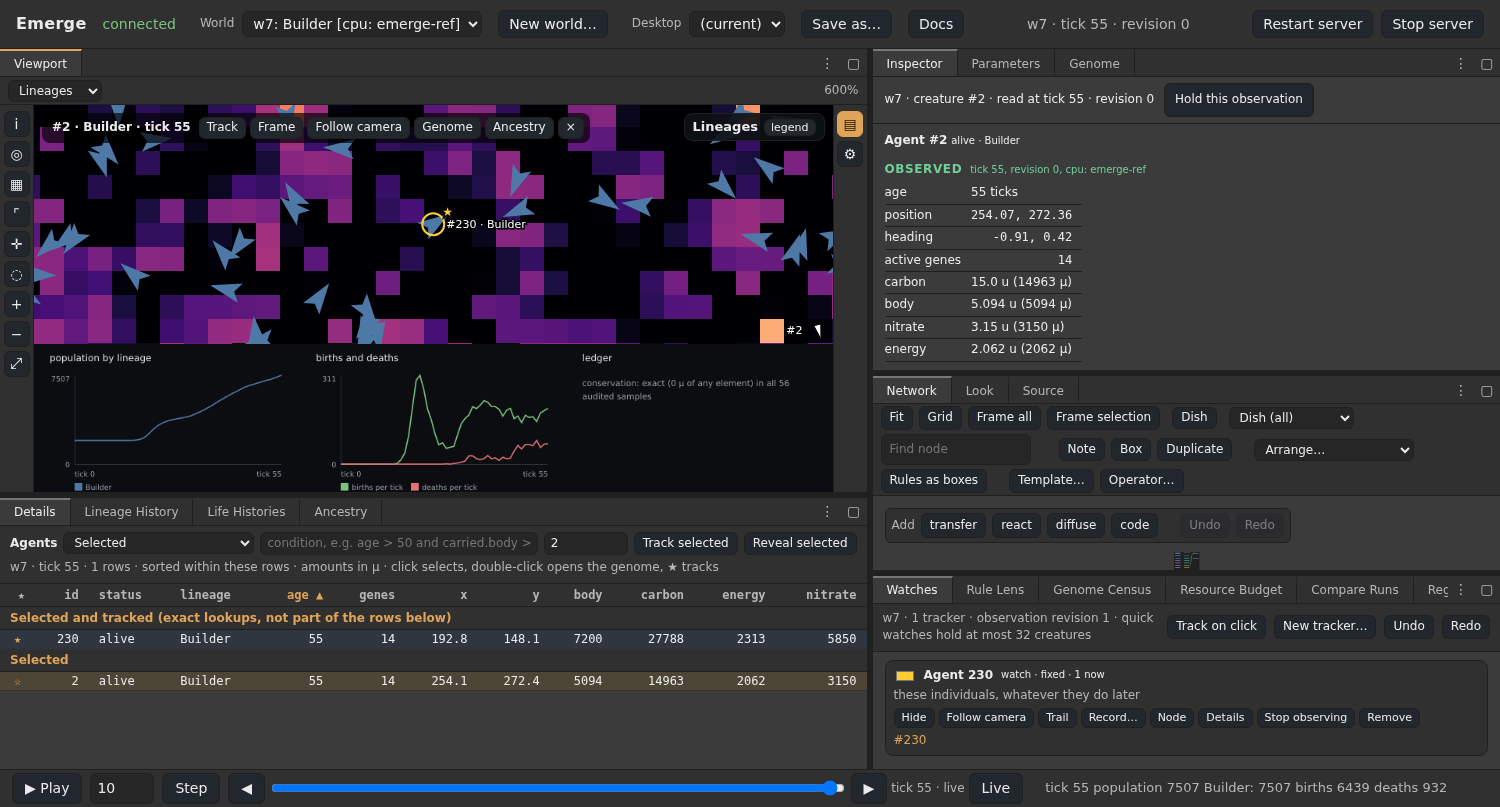
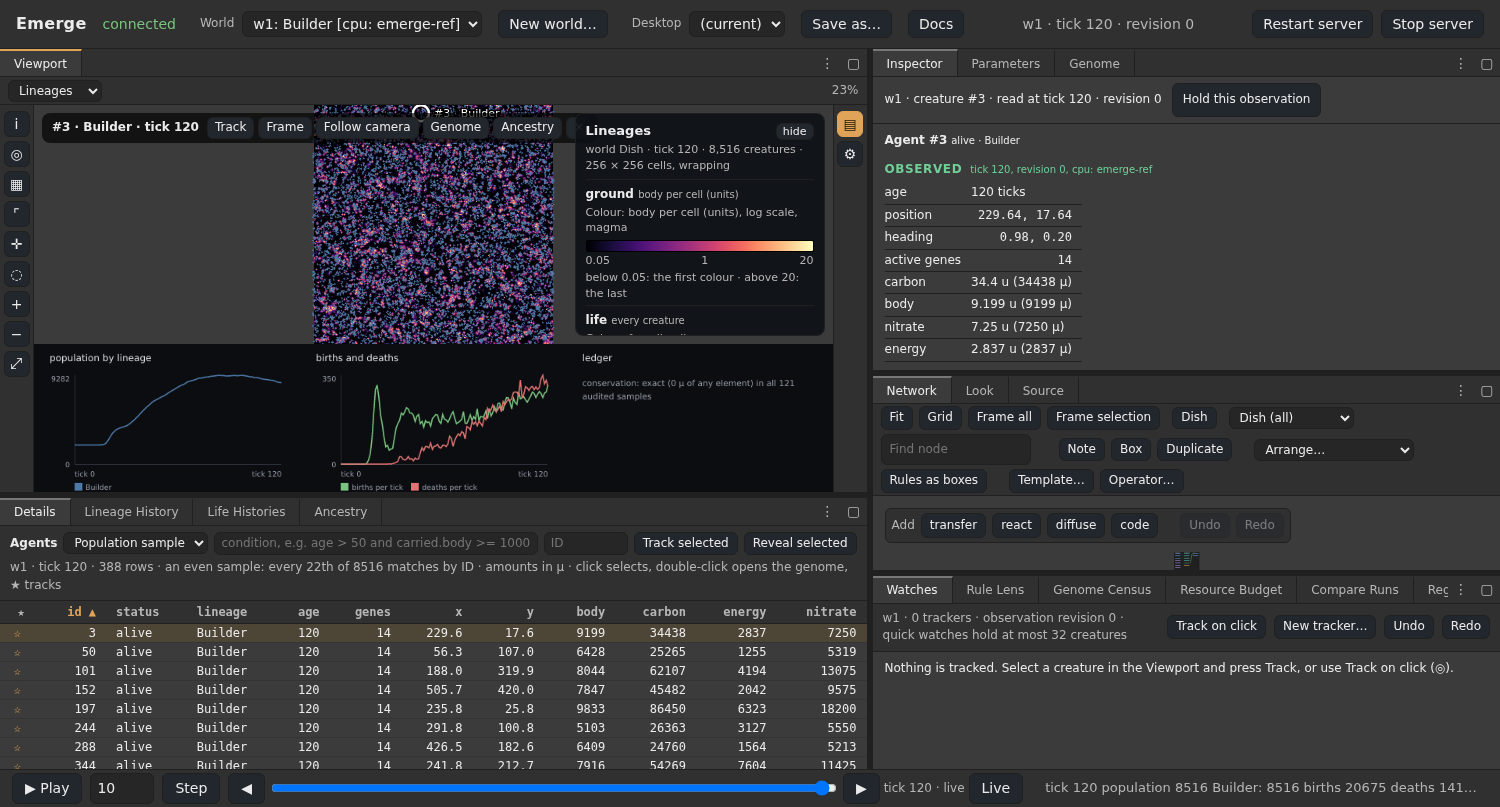
Update app screenshots to latest iteration with vector glyphs, scrubber, and modern UI

diff --git a/gallery/README.md b/gallery/README.md
@@ -12,7 +12,8 @@ A few chosen pictures of real runs, each with what is needed to draw it again (`
 | `preset-long-night-seed1-tick400.png` | The Long Night at the end of the night (tick 400): light in the cells on a fixed scale, creatures by carried energy | `emerge-server render examples/presets/long_night.em --lineages Builder --mutation off --seed 1 --tick 400 --views examples/views/presets.em --view Light --out gallery/preset-long-night-seed1-tick400.png` | `examples/presets/long_night.em`, seed 1, tick 400, CPU, mutation off |
 | `preset-lean-times-seed1-tick150.png` | Lean Times, Builder and Bloated at tick 150 with the population chart (the archived test-6 world) | `emerge-server render examples/presets/lean_times.em --lineages Builder,Bloated --mutation off --seed 1 --tick 150 --views examples/views/dish.em --view Lineages --chart default --out gallery/preset-lean-times-seed1-tick150.png` | `examples/presets/lean_times.em`, seed 1, tick 150, CPU, mutation off |
 | `preset-cabinet-highlife-seed1-tick100.png` | Automata Cabinet, birth on 3 and 6 from a 0.3 soup, tick 100; outcome not characterised | `emerge-server render examples/presets/cabinet-highlife.em --lineages "" --seed 1 --tick 100 --view Board --out gallery/preset-cabinet-highlife-seed1-tick100.png` | `examples/presets/cabinet-highlife.em`, seed 1, tick 100, CPU |
-| `app-node-network.png` | The whole application: the node-graph rule editor (Houdini-like network with rules as boxes, ports, and wires) | `scripts/browser/organise.mjs` | Live running world, Rules desktop |
+| `app-hero-simulate.png` | The whole application: the live viewer running with sharp vector glyphs, legend panel, rulers, timeline scrubber, and cellular layers | `scripts/browser/panes.mjs` | Sunlit Nursery preset, Simulate desktop |
+| `app-rules-network.png` | The whole application: the node-graph rule editor (Houdini-like network with rules as boxes, ports, and wires) | `scripts/browser/organise.mjs` | Live running world, Rules desktop |
 | `app-genome-editor.png` | The whole application: creature genome editor with module frames, signal routing, and parameters | `scripts/browser/genome.mjs` | Live running world, Genome desktop |
 | `app-science-lens.png` | The whole application: science panels with Rule Lens schedule, Lineage history chart, and counters | `scripts/browser/science.mjs` | Live running world, Science desktop |
 | `app-look-network.png` | The whole application: Look network view editor (typed visual shader graph with node previews) | `scripts/browser/look.mjs` | Live running world, Look network |

diff --git a/README.md b/README.md
@@ -2,21 +2,26 @@
 
 A rule-based language and engine for open-ended evolution. A world is a few lines of rules over conserved substances (`.em` files); creatures with evolvable genomes live in it; conservation, dissipation and the cost of living are laws that cannot be broken. It runs on the CPU (the reference) and on the GPU (equal word for word in contract mode), and has a browser editor.
 
-![Interactive Web Viewer](gallery/viewer-l3.png)
+![Interactive Web Viewer](gallery/app-hero-simulate.png)
 
 ## Screenshots
 
-### Application Panes & Desktop Layouts
+### Application Workspaces
 
-| Node Network Editor (`Rules`) | Creature Genome Editor (`Genome`) |
+| Live Simulation (`Simulate`) | Node Network Editor (`Rules`) |
 | :---: | :---: |
-| ![Node Network Editor](gallery/app-node-network.png) | ![Genome Editor](gallery/app-genome-editor.png) |
-| *Houdini-like network of rules as boxes, ports, and wires* | *Evolvable modules, signal wiring, and parameter cards* |
+| ![Live Simulation](gallery/app-hero-simulate.png) | ![Node Network Editor](gallery/app-rules-network.png) |
+| *Vector glyphs, legend, rulers, scrubber, and live cellular layers* | *Houdini-like network of rules as boxes, ports, and wires* |
 
 | Science Panels & Rule Lens (`Science`) | Agent Tracking & Inspector (`Track`) |
 | :---: | :---: |
 | ![Science Panels](gallery/app-science-lens.png) | ![Agent Tracking](gallery/app-agent-tracking.png) |
 | *Rule execution schedule, lineage history, and accounts* | *Live creature tracking, follow camera, and entity inspect* |
+
+| Creature Genome Editor (`Genome`) | Look Network Pipeline (`Look`) |
+| :---: | :---: |
+| ![Genome Editor](gallery/app-genome-editor.png) | ![Look Network](gallery/app-look-network.png) |
+| *Evolvable modules, signal wiring, and parameter cards* | *Typed visual shader pipeline with live node previews* |
 
 ### Simulation Runs
 
